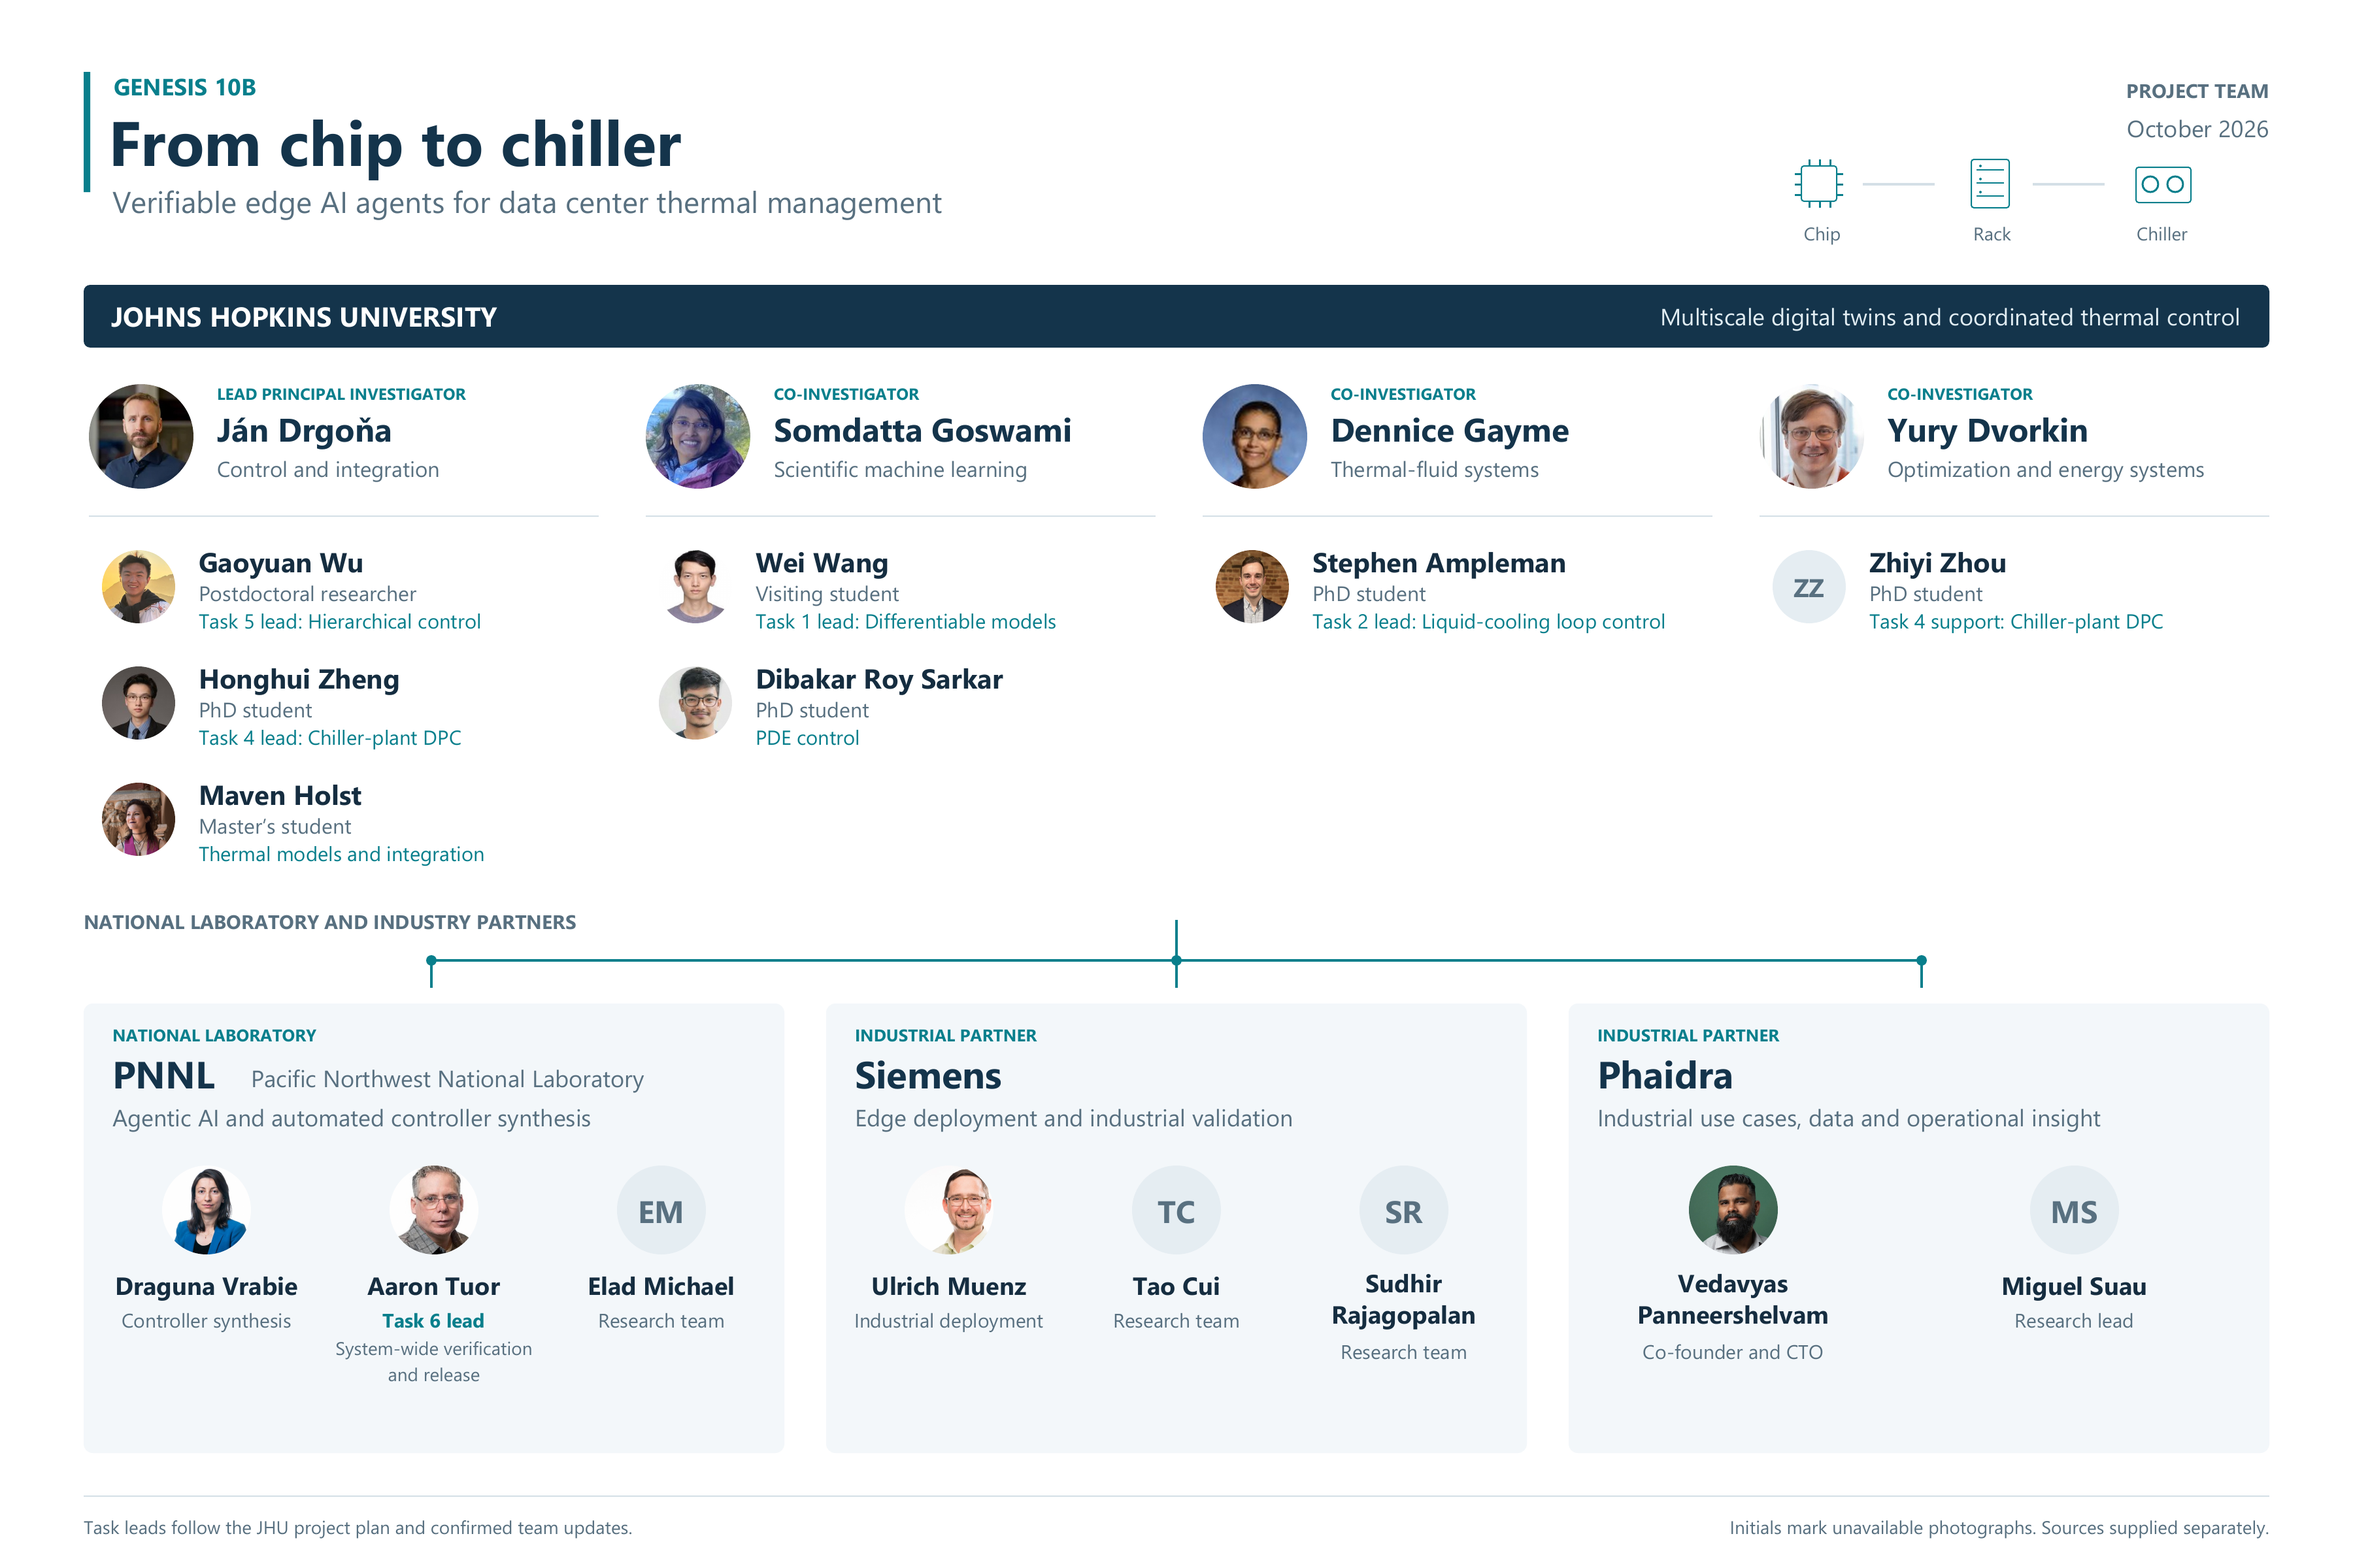
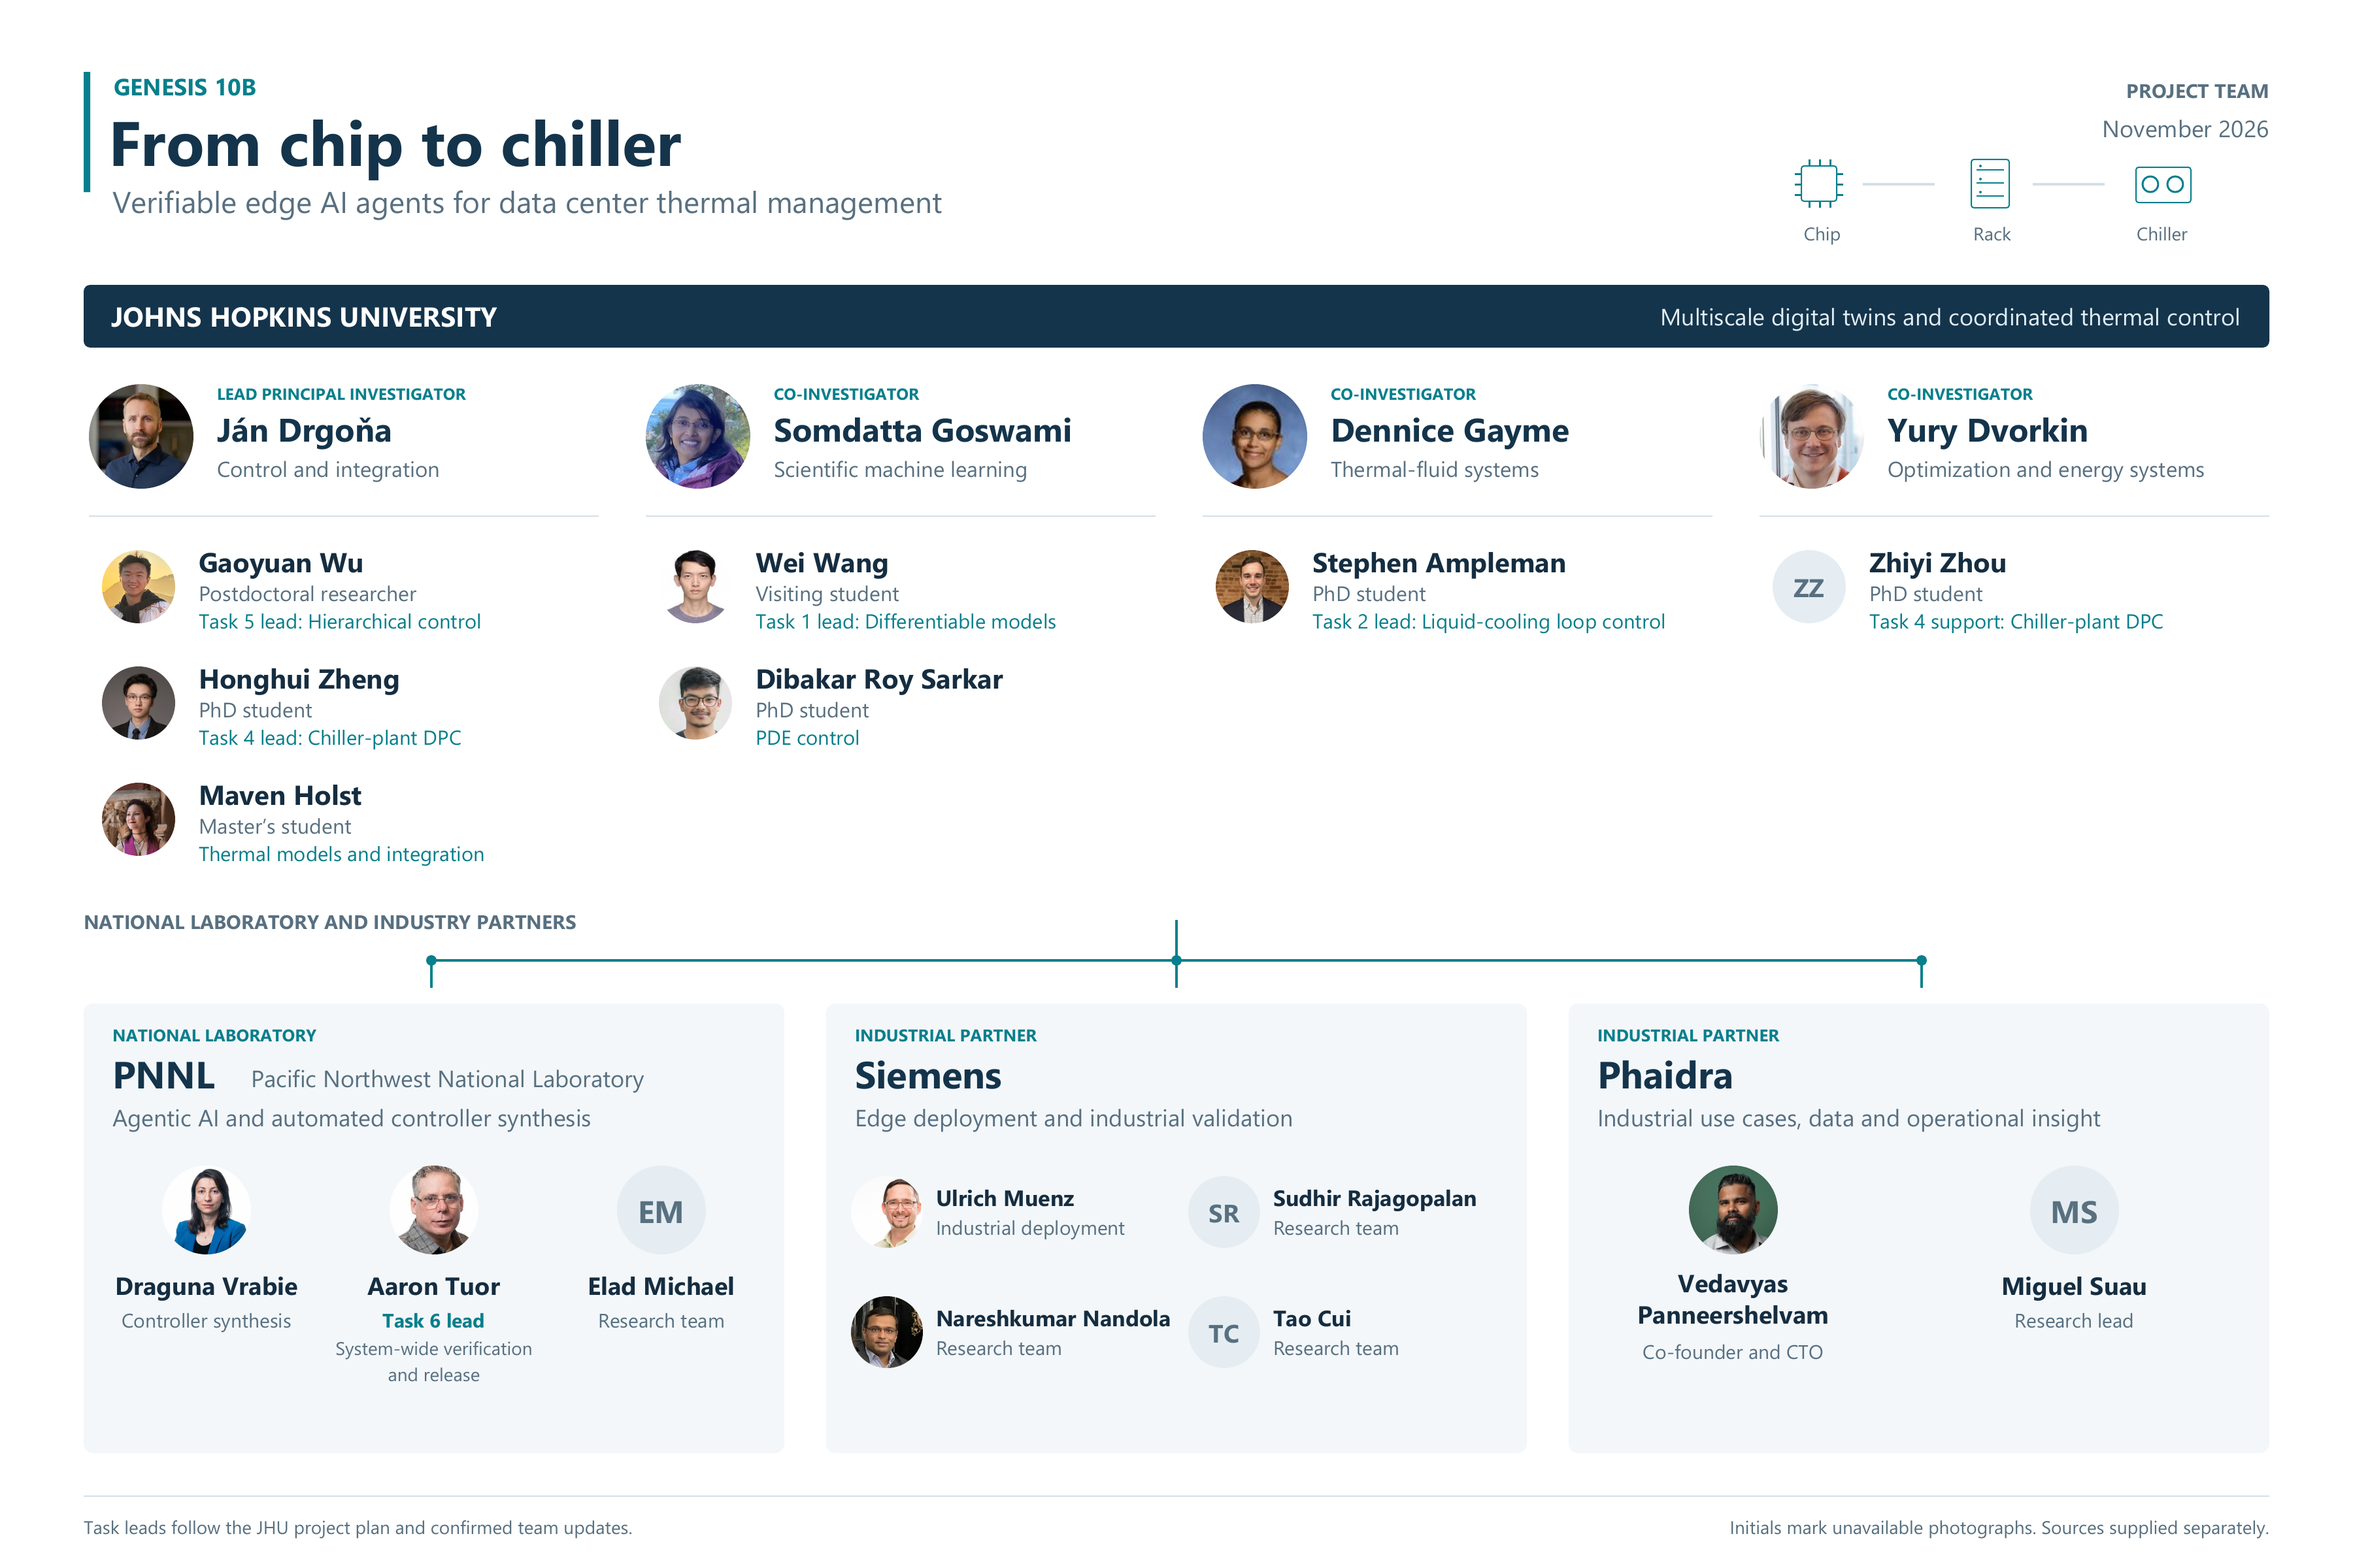
Update Siemens team and CHIP2CHILLER wordmark

Changed region(s): [[0.3422, 0.75, 0.5289, 0.875], [0.56, 0.8125, 0.6222, 0.875], [0.4978, 0.75, 0.6222, 0.7812]]

diff --git a/profile/README.md b/profile/README.md
@@ -1,10 +1,10 @@
 <p align="center">
-  <img src="https://raw.githubusercontent.com/Genesis-CHIP2CHILL/.github/main/profile/assets/chip2chill-logo.png" alt="CHIP2CHILL logo" width="640">
+  <img src="https://raw.githubusercontent.com/Genesis-CHIP2CHILL/.github/main/profile/assets/chip2chill-logo.png" alt="CHIP2CHILLER logo" width="640">
 </p>
 
 <h3 align="center">Verifiable edge AI for data center thermal management</h3>
 
-**CHIP2CHILL** is a Genesis 10B research collaboration developing energy-efficient, reliable thermal control from chips and racks to facility cooling. We combine differentiable digital twins, hierarchical predictive control, and AI agents that automate controller synthesis and verification.
+**CHIP2CHILLER** is a Genesis 10B research collaboration developing energy-efficient, reliable thermal control from chips and racks to facility cooling. We combine differentiable digital twins, hierarchical predictive control, and AI agents that automate controller synthesis and verification.
 
 Our work connects:
 
@@ -16,7 +16,7 @@ Our work connects:
 
 Led by **Johns Hopkins University**, in collaboration with **Pacific Northwest National Laboratory**, **Siemens**, and **Phaidra**.
 
-[![CHIP2CHILL project organization chart with investigators, researchers, partners, and task leads](https://raw.githubusercontent.com/Genesis-CHIP2CHILL/.github/main/profile/assets/genesis-team-chart.png)](https://raw.githubusercontent.com/Genesis-CHIP2CHILL/.github/main/profile/assets/genesis-team-chart.png)
+[![CHIP2CHILLER project organization chart with investigators, researchers, partners, and task leads](https://raw.githubusercontent.com/Genesis-CHIP2CHILL/.github/main/profile/assets/genesis-team-chart.png)](https://raw.githubusercontent.com/Genesis-CHIP2CHILL/.github/main/profile/assets/genesis-team-chart.png)
 
 | Task | Focus | Lead |
 | --- | --- | --- |
@@ -26,7 +26,7 @@ Led by **Johns Hopkins University**, in collaboration with **Pacific Northwest N
 | 5 | Hierarchical control | Gaoyuan Wu |
 | 6 | System-wide verification and release | Aaron Tuor |
 
-<sub>Task numbers follow the project work plan. Team and assignments updated October 2026. [Image credits](https://github.com/Genesis-CHIP2CHILL/.github/blob/main/profile/IMAGE_CREDITS.md).</sub>
+<sub>Task numbers follow the project work plan. Siemens roster updated November 4, 2026. Task assignments confirmed October 2026. [Image credits](https://github.com/Genesis-CHIP2CHILL/.github/blob/main/profile/IMAGE_CREDITS.md).</sub>
 
 ## Explore
 

diff --git a/profile/IMAGE_CREDITS.md b/profile/IMAGE_CREDITS.md
@@ -1,8 +1,8 @@
 # Image credits
 
-The CHIP2CHILL logo was generated for this project using OpenAI’s image-generation tool.
+The CHIP2CHILLER logo was generated for this project using OpenAI’s image-generation tool.
 
-The organization chart combines the project proposal, work plan, public research-group pages, and confirmed team updates from October 2026. Portraits are credited below; most source pages do not state the photograph’s capture date.
+The organization chart combines the project proposal, work plan, public research-group pages, and confirmed team updates through November 4, 2026. Portraits are credited below; most source pages do not state the photograph’s capture date.
 
 - **Ján Drgoňa:** [Solaris Lab](https://solaris-jhu.github.io/solaris-website/people.html).
 - **Yury Dvorkin:** [SEARCH Group](https://ydvorkin.github.io/dvorkin.html).
@@ -17,6 +17,7 @@ The organization chart combines the project proposal, work plan, public research
 - **Draguna Vrabie:** [PNNL](https://www.pnnl.gov/people/draguna-vrabie-phd).
 - **Aaron Tuor:** [PNNL](https://www.pnnl.gov/people/aaron-tuor).
 - **Ulrich Muenz:** [Princeton GradFUTURES](https://gradfutures.princeton.edu/grad-stories/ulrich-muenz).
+- **Nareshkumar Nandola:** [Google Scholar profile of Naresh N Nandola](https://scholar.google.com/citations?user=5F0hGUsAAAAJ).
 - **Vedavyas Panneershelvam:** [Phaidra leadership page](https://www.phaidra.ai/about).
 
 Initials are used for participants whose photographs were unavailable.
